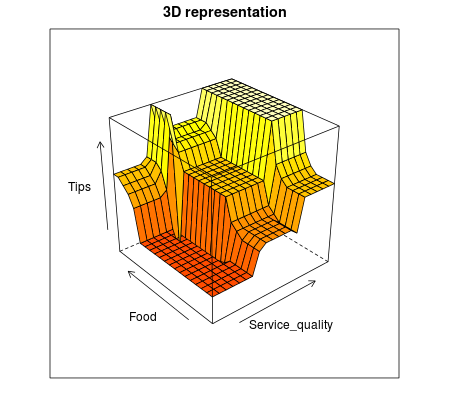
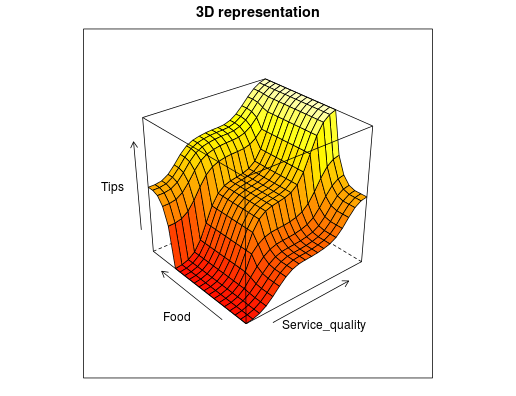
tips example

diff --git a/examples/tips.rb b/examples/tips.rb
@@ -3,9 +3,9 @@ require File.join(dir, 'fuzzyfic')
 
 # Input 1 : Service quality
 service_quality = {
-	bad: Fuzzyfic::Trapezoid.new([0,3], [0,2]), # => support=[0,3], kernel=[0,2]
-	good: Fuzzyfic::Trapezoid.new([3,7], [4,6]),
-	excellent: Fuzzyfic::Trapezoid.new([7,10], [6,10])
+	bad: Fuzzyfic::Gaussian.new([0,10], 0, 1.5), # => support=[0,10], center=0, width=1.5, using [exp(-((x-center)^2)/(2*width^2))]
+	good: Fuzzyfic::Gaussian.new([0,10], 5, 1.5),
+	excellent: Fuzzyfic::Gaussian.new([0,10], 10, 1.5)
 }
 
 # Input 2 : Food
@@ -30,4 +30,4 @@ rules.push service_quality[:excellent].or(food[:delicious]).then tips[:high]
 
 
 # Apply Rules, using Centroid/COG method
-Fuzzyfic::Defuzzifier.cog(rules, 6.19, 8.42)# Print 19.85 => (service_quality=6.19, food=8.42) => tips=19.85
+Fuzzyfic::Defuzzifier.cog(rules, 6.19, 8.42)# Print 19.97 => (service_quality=6.19, food=8.42) => tips=19.97
